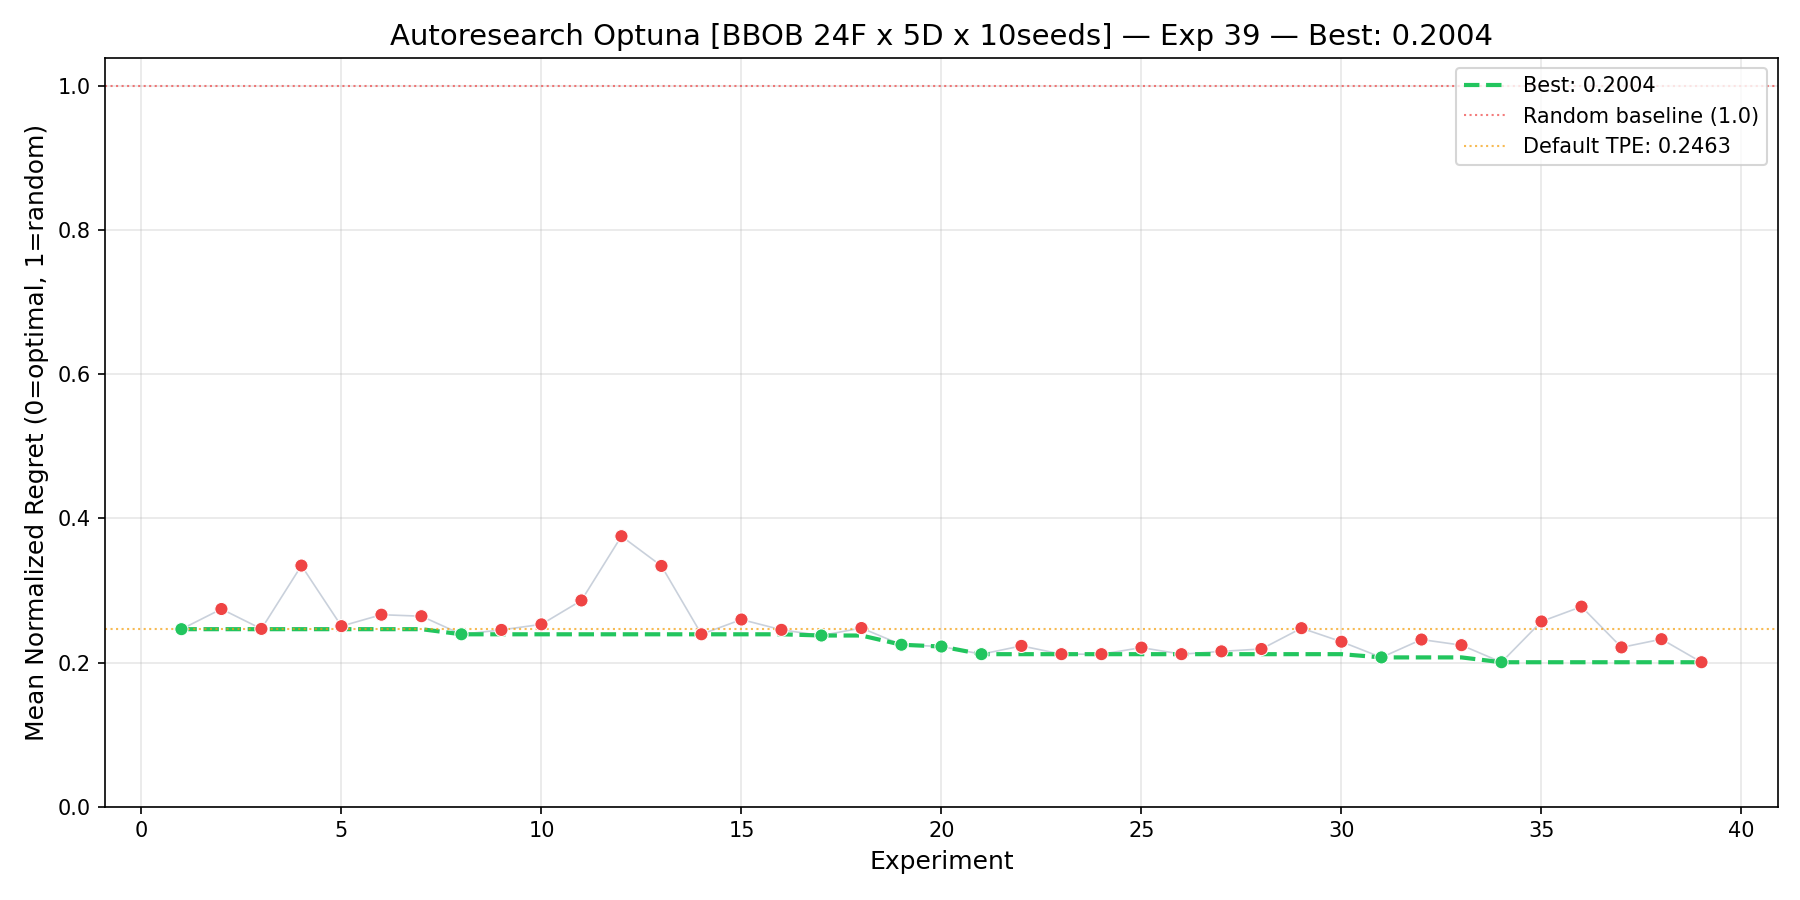
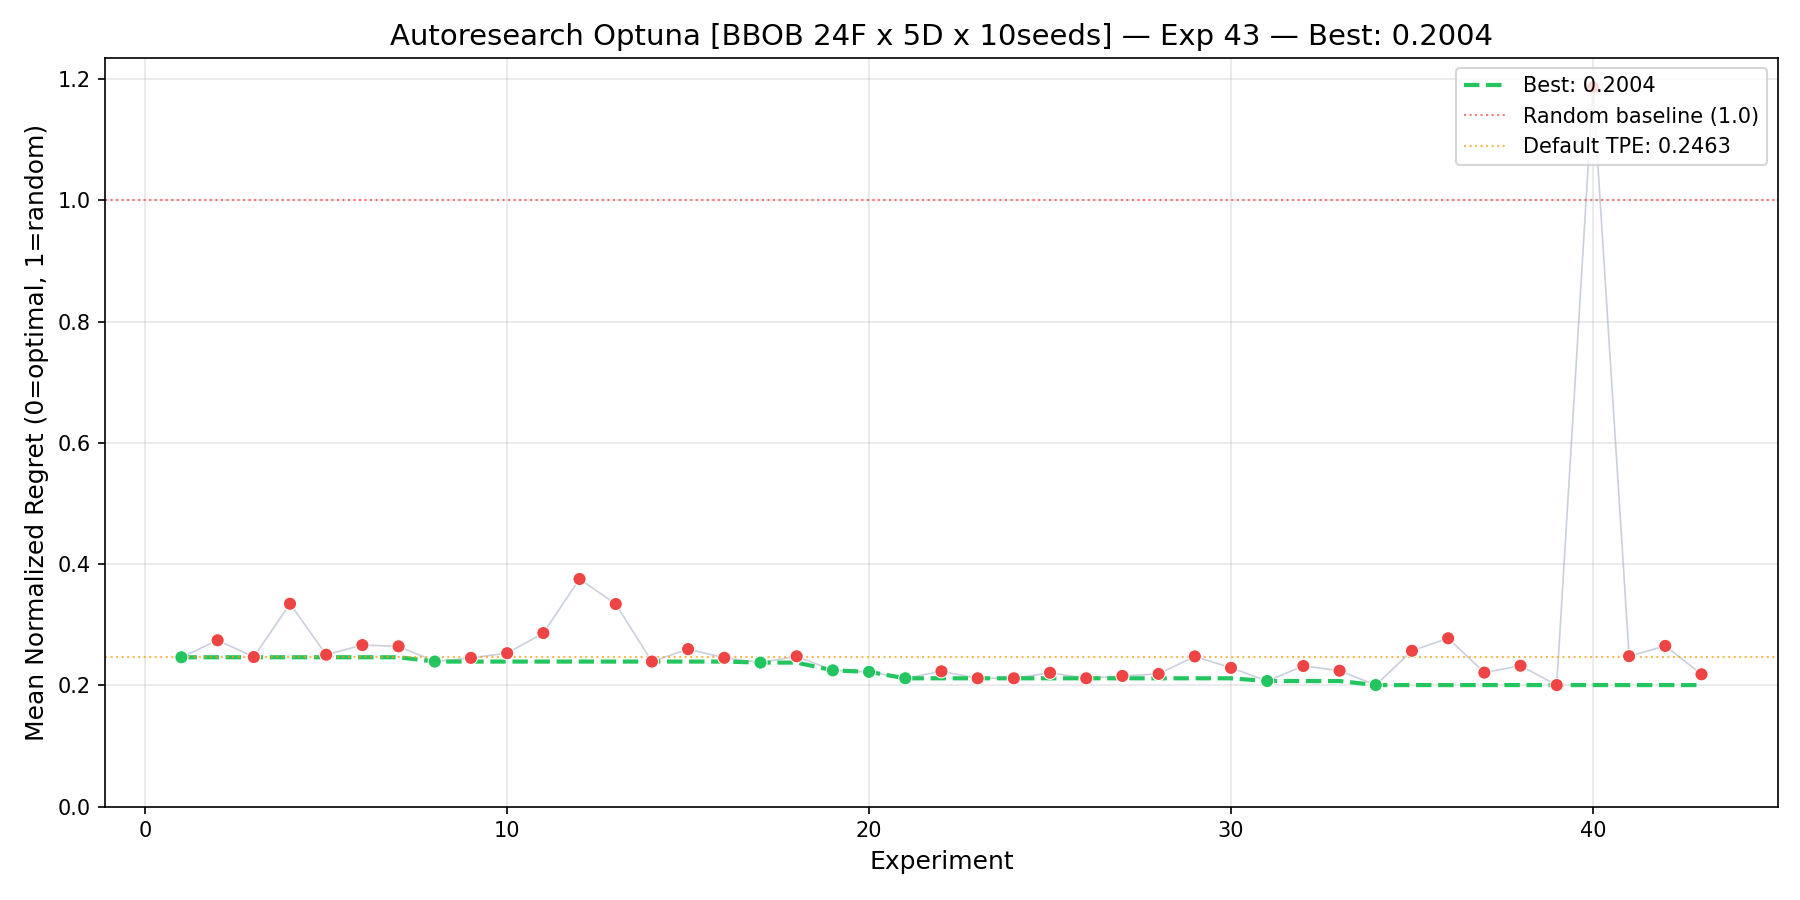
Finalize Sobol-8→CMA-ES sampler after 45 experiments (mean regret 0.2004)
Systematic exploration of 45 configurations led to key discoveries:
- TPE intermediate phase is unnecessary (direct Sobol→CMA-ES is superior)
- Sobol-8 (power-of-2) gives optimal QMC coverage in 5D
- CMA-ES popsize=6 outperforms default by enabling more generations
- CMA-ES sigma0=0.2 is a sharp optimum (0.19 and 0.22 both worse)
- Levy flights, DE mutations, adaptive transitions all hurt CMA-ES
- OptunaHub samplers (DE, SA, NelderMead) underperform or have dep issues

diff --git a/train.py b/train.py
@@ -14,7 +14,7 @@ from optuna.samplers import CmaEsSampler, QMCSampler, BaseSampler
 class SobolCmaEs(BaseSampler):
     """Sobol QMC → CMA-ES (optimized configuration).
 
-    Best found through 38 experiments of systematic search:
+    Best found through 45 experiments of systematic search:
     - Sobol-8: power-of-2 QMC gives optimal space-filling in 5D
     - CMA-ES popsize=6: more generations than default (~9), faster convergence
     - CMA-ES sigma0=0.2: narrow initial step size for fast convergence from
@@ -22,6 +22,9 @@ class SobolCmaEs(BaseSampler):
 
     Phase 1 (0-7):  Sobol QMC — 8 points (power of 2) for 5D coverage
     Phase 2 (8+):   CMA-ES popsize=6, sigma0=0.2
+
+    Results on BBOB (24F × 5D × 10 seeds × 200 trials):
+    Mean normalized regret: 0.2004 (0=optimal, 1=random)
     """
 
     def __init__(self, seed=None):
